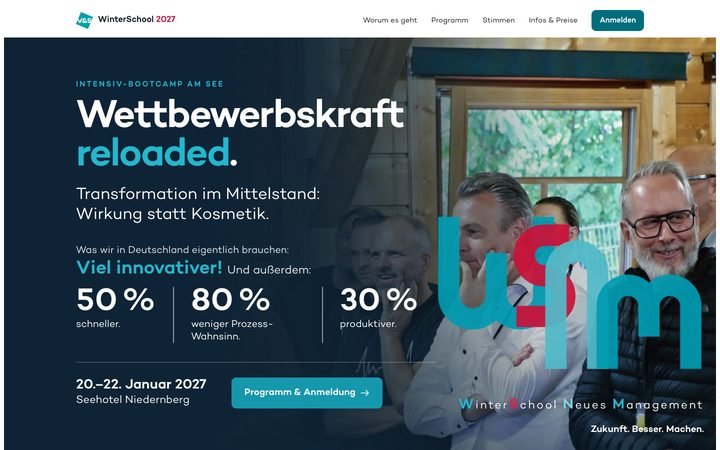
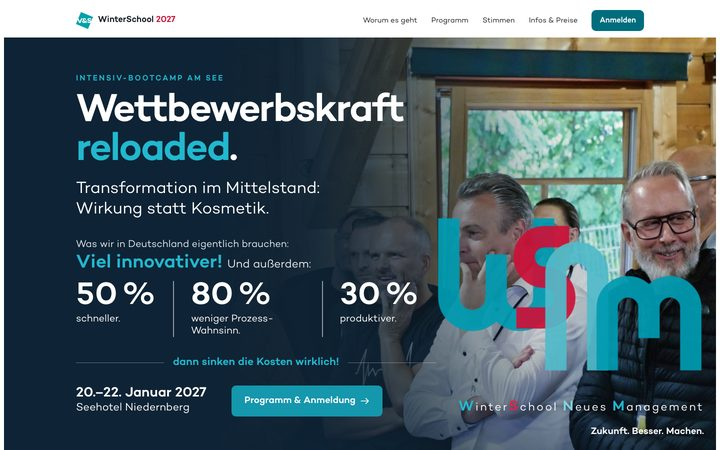
22: Schlagworte fächern sich beim Scrollen auf; Kennzahlen-Linie „dann sinken die Kosten wirklich!“; Satz „Denn in den Verheißungen …“ entfernt
Claude-Session: https://claude.ai/code/session_01A6FUCHn3aaXwuaYTU68Frh

diff --git a/22-wsnm-final.html b/22-wsnm-final.html
@@ -4,6 +4,8 @@
      „St.&nbsp;Gallen“ ohne Umbruch, weißer Umschalter „BOAH… Animation ausschalten. Sofort!“ ⇄ „Animation wieder anschalten“ im Teal der
      Herausforderungen (ab 1400 px schräg parallel zur Kante, darunter oben rechts): ruhiger Modus .calm — übliche Effekte bleiben,
      aber klein; Parallaxe/Maus/Ringe/Flug-Effekte aus, Diashow langsamer ohne Zoom. Der Browser merkt sich die Wahl. Der Button pumpt 1× beim Erscheinen.
+     Kennzahlen: Linie mit „dann sinken die Kosten wirklich!“. Fallen: 8 Schlagworte (Lean … Projekt-Management) liegen erst
+     übereinander und fächern sich beim Scrollen auf; Satz „Denn in den Verheißungen …“ entfernt.
      Mobil steht „WinterSchool Neues Management“ direkt unter den Buchstaben (vor „Intensiv-Bootcamp“). Die <template>s B–D und ihre CSS-Blöcke sind noch drin (wirkungslos).
      BILDER liegen lokal unter img/vs/ (gleiche Pfade wie auf v-und-s.de, Fotos auf max. 1920 px verkleinert) — für WordPress
      „img/vs/“ durch „https://v-und-s.de/wp-content/uploads/“ ersetzen.
@@ -183,7 +185,10 @@
 .ws27[data-hero="a"] .h-need .lbl{color:#dfe8ef}
 .ws27[data-hero="a"] .h-need .inno{color:#22B8CF}
 .ws27[data-hero="a"] .h-need li{color:#fff;border-left-color:rgba(255,255,255,.55)}
-.ws27[data-hero="a"] .h-foot{border-top:1px solid rgba(255,255,255,.35);padding-top:30px;max-width:720px}
+.ws27[data-hero="a"] .h-foot{margin-top:0;padding-top:0;max-width:720px}
+/* Linie unter den Kennzahlen mit Satz in der Mitte */
+.ws27[data-hero="a"] .h-then{display:flex;align-items:center;gap:18px;max-width:720px;margin:34px 0 28px;font-size:clamp(17px,1.5vw,22px);font-weight:600;color:#22B8CF;white-space:nowrap}
+.ws27[data-hero="a"] .h-then::before,.ws27[data-hero="a"] .h-then::after{content:"";flex:1;height:1px;background:rgba(255,255,255,.35)}
 .ws27[data-hero="a"] .h-date{color:#fff}
 .ws27[data-hero="a"] .h-go .btn{background:#1597AD;color:#fff;font-size:19px}
 .ws27[data-hero="a"] .h-go .btn:hover{background:#12869A}
@@ -482,11 +487,10 @@
 }
 
 /* ========== Fallen: große Wörter überlagern sich ========== */
-.ws27 .traps .words{position:relative;height:clamp(220px,26vw,360px);margin-bottom:40px;isolation:isolate}
-.ws27 .traps .words span{position:absolute;font-weight:700;letter-spacing:-.04em;line-height:.8;mix-blend-mode:multiply;white-space:nowrap}
-.ws27 .traps .w1{left:0;top:0;font-size:clamp(90px,15vw,230px);color:var(--teal);--amp:-40}
-.ws27 .traps .w2{left:42%;top:26%;font-size:clamp(100px,17vw,260px);color:var(--red);--amp:30;--rot:-4}
-.ws27 .traps .w3{left:auto;right:0;top:6%;font-size:clamp(70px,10vw,160px);color:rgba(29,42,58,.62);--amp:-20}
+.ws27 .traps .words{--q:1;position:relative;display:flex;flex-wrap:wrap;align-items:baseline;margin-bottom:48px;isolation:isolate;font-size:clamp(34px,6.4vw,100px)}
+.ws27 .traps .words span{position:relative;font-weight:700;letter-spacing:-.035em;line-height:.86;white-space:nowrap;mix-blend-mode:multiply;font-size:calc(var(--s) * 1em);margin:0 -.06em -.08em 0;padding-right:.22em;
+  transform:translate(calc((1 - var(--q)) * var(--dx,0px)),calc((1 - var(--q)) * var(--dy,0px))) rotate(calc((1 - var(--q)) * var(--r,0deg)))}
+.ws27 .traps .words .c1{color:var(--teal)}.ws27 .traps .words .c2{color:var(--red)}.ws27 .traps .words .c3{color:rgba(29,42,58,.62)}.ws27 .traps .words .c4{color:var(--greige)}
 .ws27 .traps .cols{display:grid;grid-template-columns:1fr 1.1fr;gap:70px;align-items:start}
 .ws27 .traps .txt p{margin-bottom:18px}
 .ws27 .promises{list-style:none;padding:0;margin:4px 0 22px}
@@ -497,8 +501,8 @@
 .ws27 .promises b{color:var(--teal-d)}
 .ws27 .wow{font-size:clamp(28px,3.2vw,44px);line-height:1.15;font-weight:600;color:var(--red)}
 .ws27 .wow-sub{margin-top:14px;font-size:clamp(19px,1.7vw,23px);color:var(--mut)}
-@media (max-width:900px){.ws27 .traps .cols{grid-template-columns:1fr;gap:34px}.ws27 .traps .w2{left:30%}.ws27 .traps .w3{left:auto}}
-@media (max-width:600px){.ws27 .traps .w1{font-size:19vw}.ws27 .traps .w2{left:24%;top:36%;font-size:22vw}.ws27 .traps .w3{left:auto;right:0;top:4%;font-size:13vw}}
+@media (max-width:900px){.ws27 .traps .cols{grid-template-columns:1fr;gap:34px}}
+@media (max-width:600px){.ws27 .traps .words{font-size:10.5vw}}
 
 /* ========== Unterschied ========== */
 .ws27 .diff{background:var(--grey-l)}
@@ -793,6 +797,7 @@
               <li><b>30&#8239;%</b>produktiver.</li>
             </ul>
           </div>
+          <p class="h-then h-anim" style="--d:.38s">dann sinken die Kosten wirklich!</p>
           <div class="h-foot h-anim" style="--d:.42s">
             <p class="h-date">20.–22. Januar 2027<small>Seehotel Niedernberg</small></p>
             <div class="h-go">
@@ -1164,17 +1169,22 @@
   <!-- ===== Die Fallen ===== -->
   <section class="sec traps" id="fallen" aria-labelledby="h-fallen">
     <div class="wrap">
+      <!-- Schlagworte: liegen erst übereinander und fächern sich beim Scrollen auf (--q 0→1, JS unten) -->
       <div class="words" aria-hidden="true">
-        <span class="w1 par"><span class="rv fx-l" style="position:static;display:block">Agilität</span></span>
-        <span class="w2 par"><span class="rv fx-drop" style="position:static;display:block;--d:.15s">TOC</span></span>
-        <span class="w3 par"><span class="rv fx-r" style="position:static;display:block;--d:.3s">ReaLean</span></span>
+        <span class="c1" style="--s:1.3;--r:-6deg">Lean</span>
+        <span class="c2" style="--s:1.1;--r:5deg">Agile</span>
+        <span class="c3" style="--s:0.78;--r:-3deg">Kostensenkung</span>
+        <span class="c4" style="--s:1.2;--r:8deg">Flow</span>
+        <span class="c2" style="--s:1.3;--r:-9deg">KI</span>
+        <span class="c1" style="--s:0.66;--r:4deg">Innovations-Management</span>
+        <span class="c3" style="--s:1.1;--r:-5deg">ERP</span>
+        <span class="c4" style="--s:0.72;--r:6deg">Projekt-Management</span>
       </div>
       <div class="cols">
         <div>
           <p class="eyebrow rv">Die Fallen</p>
           <h2 id="h-fallen" class="rv" style="--d:.1s">Viele Heilsversprechen, viele Fallen</h2>
           <p class="wow rv fx-pop" style="--d:.2s;margin-top:40px">Wow! Aber was machen die Firmen anders, bei denen das wirklich klappt?</p>
-          <p class="wow-sub rv" style="--d:.3s">Denn in den Verheißungen lauern viele Fallen …</p>
         </div>
         <div class="txt">
           <p class="rv" style="--d:.1s">Wenn über Wettbewerbsfähigkeit und Transformation gesprochen wird, dann kommen alte und neue Heilsversprechen ins Spiel:</p>
@@ -1530,6 +1540,7 @@
     root.style.setProperty('--sp',max>0?(y/max).toFixed(4):0);
     bar.classList.toggle('scrolled',y>8);
     if(reduced) return;
+    spreadWords();
     var hr=hero.getBoundingClientRect();
     if(!calm) hero.style.setProperty('--hp',Math.max(0,Math.min(1,-hr.top/Math.max(1,hr.height))).toFixed(4));
     if(!calm) pars.forEach(function(el){
@@ -1540,10 +1551,27 @@
     var cur=-1; targets.forEach(function(t,i){ if(t && t.getBoundingClientRect().top<vh*.4) cur=i; });
     links.forEach(function(a,i){ a.classList.toggle('cur',i===cur); });
   }
+  /* Schlagworte (Fallen): Abstand jedes Worts zur Mitte messen; beim Scrollen --q 0 → 1 (übereinander → aufgefächert) */
+  var wbox=root.querySelector('.traps .words'), wwords=wbox?[].slice.call(wbox.children):[];
+  function measureWords(){
+    if(!wbox) return; wbox.style.setProperty('--q',1);
+    var cx=wbox.clientWidth/2, cy=wbox.clientHeight/2;
+    wwords.forEach(function(w){ w.style.setProperty('--dx',(cx-(w.offsetLeft+w.offsetWidth/2)).toFixed(1)+'px'); w.style.setProperty('--dy',(cy-(w.offsetTop+w.offsetHeight/2)).toFixed(1)+'px'); });
+    spreadWords();
+  }
+  function spreadWords(){
+    if(!wbox) return;
+    if(reduced||calm){ wbox.style.setProperty('--q',1); return; }
+    var vh=window.innerHeight, t=wbox.getBoundingClientRect().top;
+    var q=Math.max(0,Math.min(1,(vh*.95-t)/(vh*.5))); q=q*q*(3-2*q);
+    wbox.style.setProperty('--q',q.toFixed(3));
+  }
   function req(){ if(!ticking){ ticking=true; requestAnimationFrame(frame); } }
   window.addEventListener('scroll',req,{passive:true});
   window.addEventListener('resize',req);
   frame();
+  measureWords(); window.addEventListener('load',measureWords); window.addEventListener('resize',measureWords);
+  if(document.fonts&&document.fonts.ready) document.fonts.ready.then(measureWords);
 
   /* Maus-Parallaxe im Hero (nur Desktop mit Maus) */
   if(!reduced && window.matchMedia('(hover:hover) and (pointer:fine)').matches){
@@ -1568,6 +1596,7 @@
     calm=on; root.classList.toggle('calm',on);
     if(on){ pars.forEach(function(el){ el.style.setProperty('--p',0); }); ['--hp','--mx','--my'].forEach(function(k){ hero.style.setProperty(k,0); }); mx=my=tx=ty=0; }
     else req();
+    spreadWords();
     if(calmBtn){ calmBtn.textContent=on?'Animation wieder anschalten':'BOAH… Animation ausschalten. Sofort!'; calmBtn.setAttribute('aria-pressed',String(on)); }
   }
   if(calmBtn && !reduced && 'IntersectionObserver' in window){
